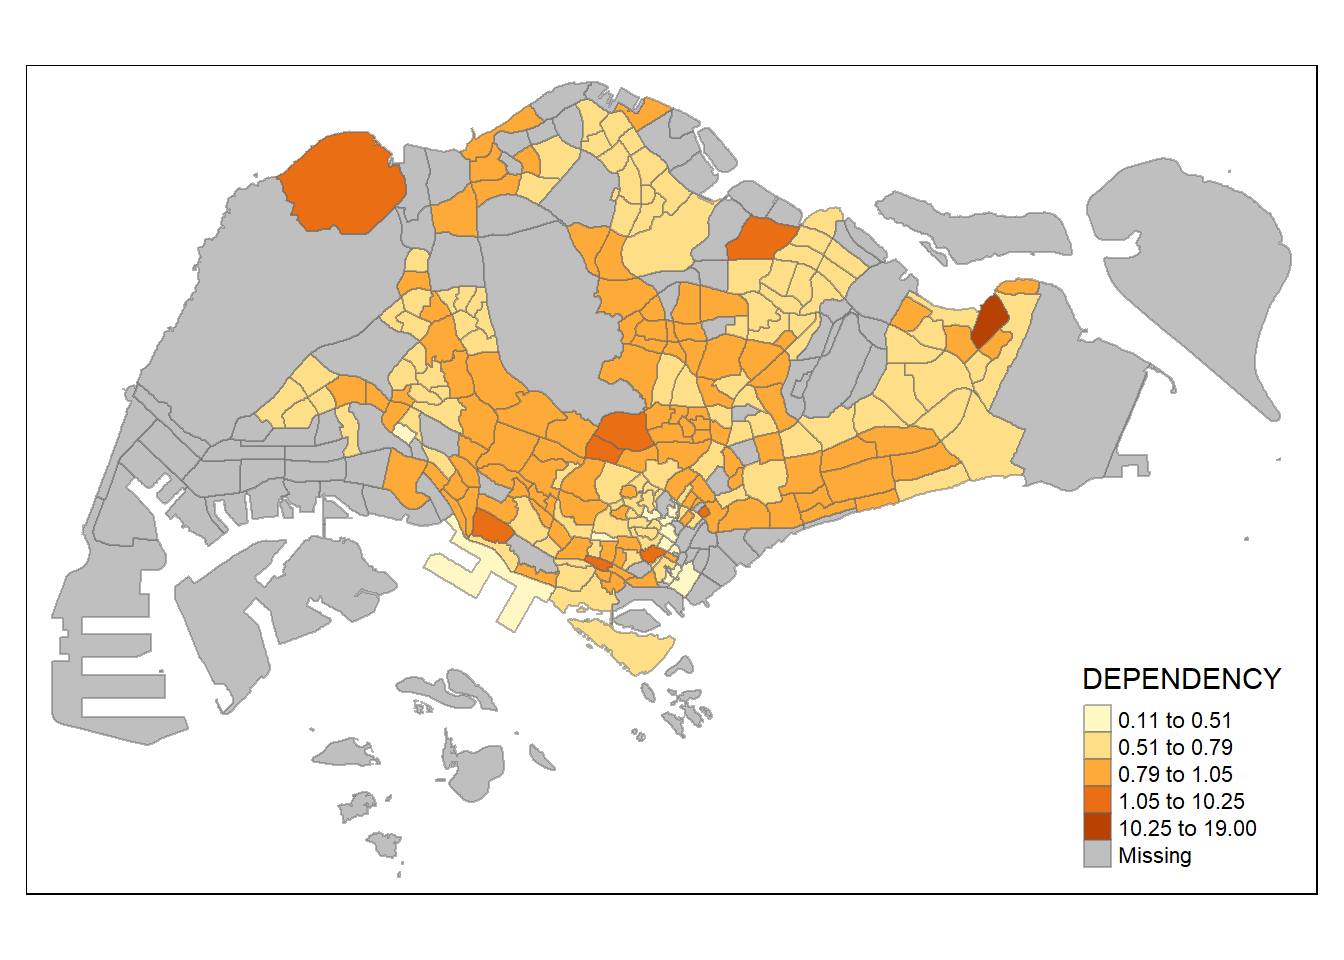
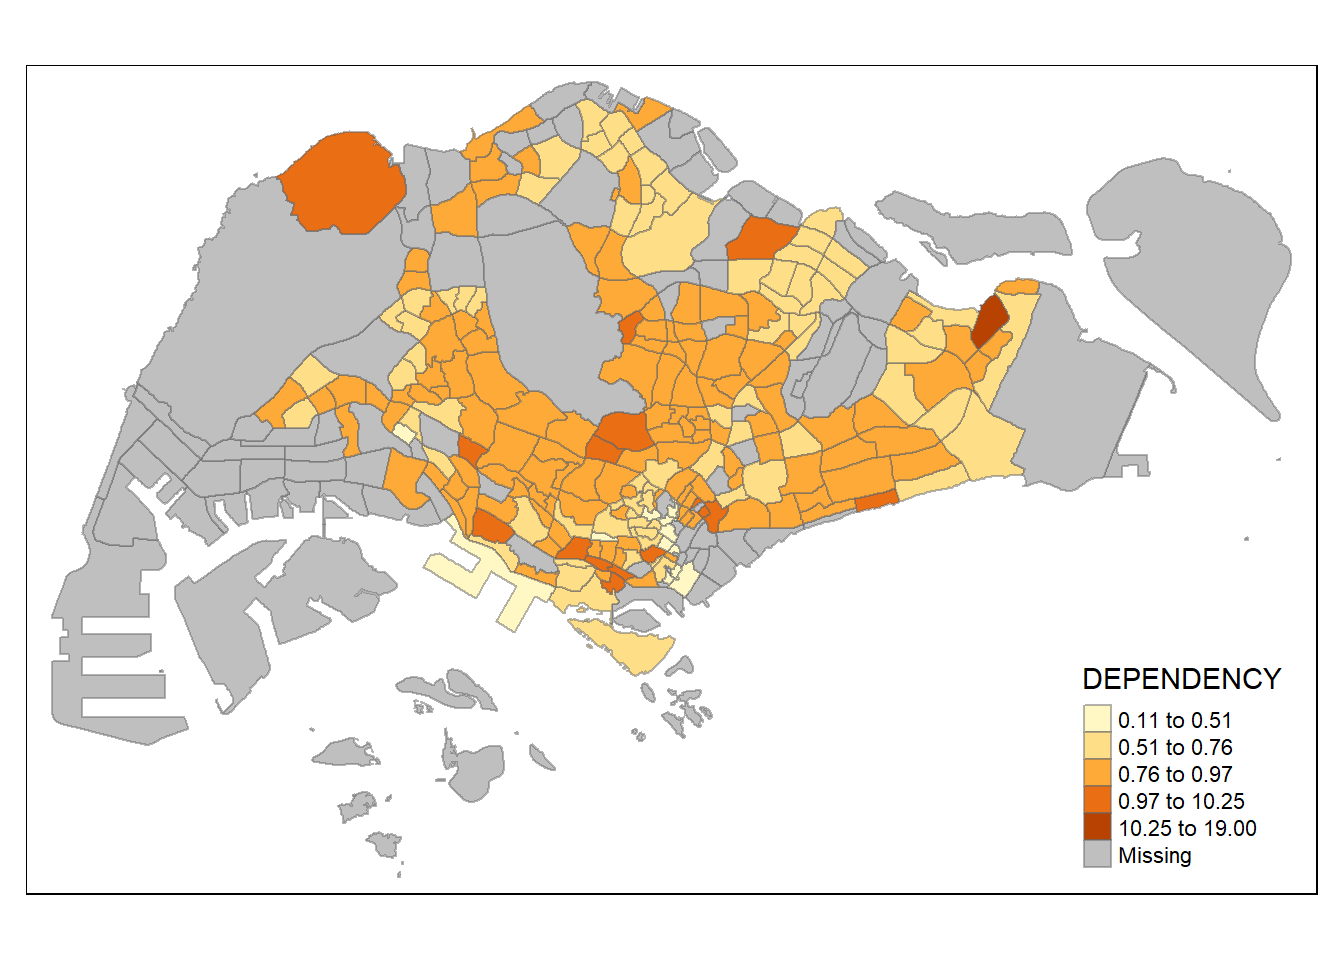
edits & publish

diff --git a/_site/In-class_Ex/In-class_Ex02/In-class_Ex02.html b/_site/In-class_Ex/In-class_Ex02/In-class_Ex02.html
@@ -6,8 +6,10 @@
 
 <meta name="viewport" content="width=device-width, initial-scale=1.0, user-scalable=yes">
 
+<meta name="author" content="Victoria Grace ANN">
+<meta name="dcterms.date" content="2024-01-15">
 
-<title>IS415-GAA - About Victoria</title>
+<title>IS415-GAA - In-class_Ex02</title>
 <style>
 code{white-space: pre-wrap;}
 span.smallcaps{font-variant: small-caps;}
@@ -23,22 +25,22 @@ ul.task-list li input[type="checkbox"] {
 </style>
 
 
-<script src="site_libs/quarto-nav/quarto-nav.js"></script>
-<script src="site_libs/quarto-nav/headroom.min.js"></script>
-<script src="site_libs/clipboard/clipboard.min.js"></script>
-<script src="site_libs/quarto-search/autocomplete.umd.js"></script>
-<script src="site_libs/quarto-search/fuse.min.js"></script>
-<script src="site_libs/quarto-search/quarto-search.js"></script>
-<meta name="quarto:offset" content="./">
-<script src="site_libs/quarto-html/quarto.js"></script>
-<script src="site_libs/quarto-html/popper.min.js"></script>
-<script src="site_libs/quarto-html/tippy.umd.min.js"></script>
-<script src="site_libs/quarto-html/anchor.min.js"></script>
-<link href="site_libs/quarto-html/tippy.css" rel="stylesheet">
-<link href="site_libs/quarto-html/quarto-syntax-highlighting.css" rel="stylesheet" id="quarto-text-highlighting-styles">
-<script src="site_libs/bootstrap/bootstrap.min.js"></script>
-<link href="site_libs/bootstrap/bootstrap-icons.css" rel="stylesheet">
-<link href="site_libs/bootstrap/bootstrap.min.css" rel="stylesheet" id="quarto-bootstrap" data-mode="light">
+<script src="../../site_libs/quarto-nav/quarto-nav.js"></script>
+<script src="../../site_libs/quarto-nav/headroom.min.js"></script>
+<script src="../../site_libs/clipboard/clipboard.min.js"></script>
+<script src="../../site_libs/quarto-search/autocomplete.umd.js"></script>
+<script src="../../site_libs/quarto-search/fuse.min.js"></script>
+<script src="../../site_libs/quarto-search/quarto-search.js"></script>
+<meta name="quarto:offset" content="../../">
+<script src="../../site_libs/quarto-html/quarto.js"></script>
+<script src="../../site_libs/quarto-html/popper.min.js"></script>
+<script src="../../site_libs/quarto-html/tippy.umd.min.js"></script>
+<script src="../../site_libs/quarto-html/anchor.min.js"></script>
+<link href="../../site_libs/quarto-html/tippy.css" rel="stylesheet">
+<link href="../../site_libs/quarto-html/quarto-syntax-highlighting.css" rel="stylesheet" id="quarto-text-highlighting-styles">
+<script src="../../site_libs/bootstrap/bootstrap.min.js"></script>
+<link href="../../site_libs/bootstrap/bootstrap-icons.css" rel="stylesheet">
+<link href="../../site_libs/bootstrap/bootstrap.min.css" rel="stylesheet" id="quarto-bootstrap" data-mode="light">
 <script id="quarto-search-options" type="application/json">{
   "location": "navbar",
   "copy-button": false,
@@ -61,7 +63,7 @@ ul.task-list li input[type="checkbox"] {
 }</script>
 
 
-<link rel="stylesheet" href="styles.css">
+<link rel="stylesheet" href="../../styles.css">
 </head>
 
 <body class="nav-fixed">
@@ -71,7 +73,7 @@ ul.task-list li input[type="checkbox"] {
     <nav class="navbar navbar-expand-lg navbar-dark ">
       <div class="navbar-container container-fluid">
       <div class="navbar-brand-container">
-    <a class="navbar-brand" href="./index.html">
+    <a class="navbar-brand" href="../../index.html">
     <span class="navbar-title">IS415-GAA</span>
     </a>
   </div>
@@ -87,23 +89,23 @@ ul.task-list li input[type="checkbox"] {
     </a>
     <ul class="dropdown-menu" aria-labelledby="nav-menu-hands-on-exercises">    
         <li>
-    <a class="dropdown-item" href="./Hands-on_Ex/Hands-on_Ex01/Hands-on_Ex01.html" rel="" target="">
+    <a class="dropdown-item" href="../../Hands-on_Ex/Hands-on_Ex01/Hands-on_Ex01.html" rel="" target="">
  <span class="dropdown-text">Hands-on Exercise 1</span></a>
   </li>  
         <li>
-    <a class="dropdown-item" href="./Hands-on_Ex/Hands-on_Ex02/Hands-on_Ex02.html" rel="" target="">
+    <a class="dropdown-item" href="../../Hands-on_Ex/Hands-on_Ex02/Hands-on_Ex02.html" rel="" target="">
  <span class="dropdown-text">Hands-on Exercise 2</span></a>
   </li>  
         <li class="dropdown-header">Hands-on Exercise 3</li>
         <li class="dropdown-header">Hands-on Exercise 4</li>
         <li class="dropdown-header">Hands-on Exercise 5</li>
         <li>
-    <a class="dropdown-item" href="./Hands-on_Ex/Hands-on_Ex06/Hands-on_Ex06.html" rel="" target="">
+    <a class="dropdown-item" href="../../Hands-on_Ex/Hands-on_Ex06/Hands-on_Ex06.html" rel="" target="">
  <span class="dropdown-text">Hands-on Exercise 6</span></a>
   </li>  
         <li class="dropdown-header">Hands-on Exercise 7</li>
         <li>
-    <a class="dropdown-item" href="./Hands-on_Ex/Hands-on_Ex08/Hands-on_Ex08.html" rel="" target="">
+    <a class="dropdown-item" href="../../Hands-on_Ex/Hands-on_Ex08/Hands-on_Ex08.html" rel="" target="">
  <span class="dropdown-text">Hands-on Exercise 8</span></a>
   </li>  
         <li class="dropdown-header">Hands-on Exercise 9</li>
@@ -135,11 +137,11 @@ ul.task-list li input[type="checkbox"] {
 </ul>
             <ul class="navbar-nav navbar-nav-scroll ms-auto">
   <li class="nav-item">
-    <a class="nav-link" href="./index.html" rel="" target="">
+    <a class="nav-link" href="../../index.html" rel="" target="">
  <span class="menu-text">Home</span></a>
   </li>  
   <li class="nav-item">
-    <a class="nav-link active" href="./about.html" rel="" target="" aria-current="page">
+    <a class="nav-link" href="../../about.html" rel="" target="">
  <span class="menu-text">About Victoria</span></a>
   </li>  
 </ul>
@@ -161,22 +163,39 @@ ul.task-list li input[type="checkbox"] {
 
 <header id="title-block-header" class="quarto-title-block default">
 <div class="quarto-title">
-<h1 class="title">About Victoria</h1>
+<h1 class="title">In-class_Ex02</h1>
 </div>
 
 
 
 <div class="quarto-title-meta">
 
+    <div>
+    <div class="quarto-title-meta-heading">Author</div>
+    <div class="quarto-title-meta-contents">
+             <p>Victoria Grace ANN </p>
+          </div>
+  </div>
     
+    <div>
+    <div class="quarto-title-meta-heading">Published</div>
+    <div class="quarto-title-meta-contents">
+      <p class="date">January 15, 2024</p>
+    </div>
+  </div>
   
+    <div>
+    <div class="quarto-title-meta-heading">Modified</div>
+    <div class="quarto-title-meta-contents">
+      <p class="date-modified">January 15, 2024</p>
+    </div>
+  </div>
     
   </div>
   
 
 </header>
 
-<p>Check out this space soon!</p>
 
 
 

diff --git a/_site/Hands-on_Ex/Hands-on_Ex02/Hands-on_Ex02.html b/_site/Hands-on_Ex/Hands-on_Ex02/Hands-on_Ex02.html
@@ -160,8 +160,14 @@ pre > code.sourceCode > span > a:first-child::before { text-decoration: underlin
         <li class="dropdown-header">In-class Exercise 8</li>
     </ul>
   </li>
-  <li class="dropdown-header">
- <span class="menu-text">Take-home Exercises</span></li>
+  <li class="nav-item dropdown ">
+    <a class="nav-link dropdown-toggle" href="#" id="nav-menu-take-home-exercises" role="button" data-bs-toggle="dropdown" aria-expanded="false" rel="" target="">
+ <span class="menu-text">Take-home Exercises</span>
+    </a>
+    <ul class="dropdown-menu" aria-labelledby="nav-menu-take-home-exercises">    
+        <li class="dropdown-header">Take-home Exercise 1</li>
+    </ul>
+  </li>
 </ul>
             <ul class="navbar-nav navbar-nav-scroll ms-auto">
   <li class="nav-item">
@@ -170,7 +176,7 @@ pre > code.sourceCode > span > a:first-child::before { text-decoration: underlin
   </li>  
   <li class="nav-item">
     <a class="nav-link" href="../../about.html" rel="" target="">
- <span class="menu-text">About</span></a>
+ <span class="menu-text">About Victoria</span></a>
   </li>  
 </ul>
             <div class="quarto-navbar-tools">
@@ -264,7 +270,7 @@ pre > code.sourceCode > span > a:first-child::before { text-decoration: underlin
     <div>
     <div class="quarto-title-meta-heading">Modified</div>
     <div class="quarto-title-meta-contents">
-      <p class="date-modified">January 12, 2024</p>
+      <p class="date-modified">January 15, 2024</p>
     </div>
   </div>
     
@@ -565,7 +571,7 @@ First 10 features:
 </div>
 </div>
 <ul>
-<li>The distribution of quantile data classification is more evenly distributed than the equal data classification method.</li>
+<li>The distribution of jenks data classification is more evenly distributed than the equal data classification method.</li>
 </ul>
 <p><strong>tmap</strong> actually has 10 data classification methods: - jenks (or natural breaks as mentioned) - equal (as mentioned) - fixed - sd - pretty (default) - quantile - kmeans - fisher - hclust - bclust</p>
 <p>Looking closer at… #### sd</p>
@@ -698,6 +704,9 @@ summary(mpsz_pop2020$DEPENDENCY)</code></pre>
 <p><img src="Hands-on_Ex02_files/figure-html/unnamed-chunk-26-1.png" class="img-fluid" width="672"></p>
 </div>
 </div>
+<ul>
+<li></li>
+</ul>
 </section>
 </section>
 </section>
